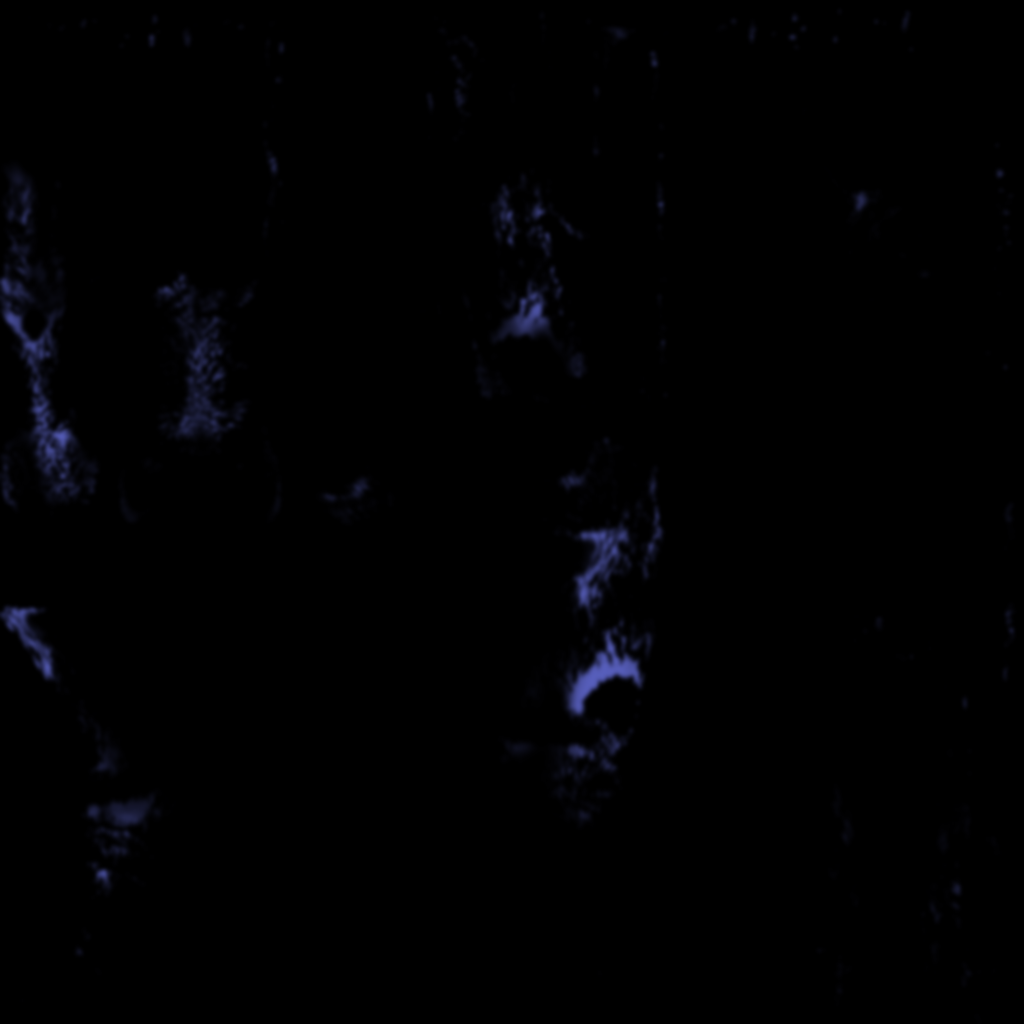
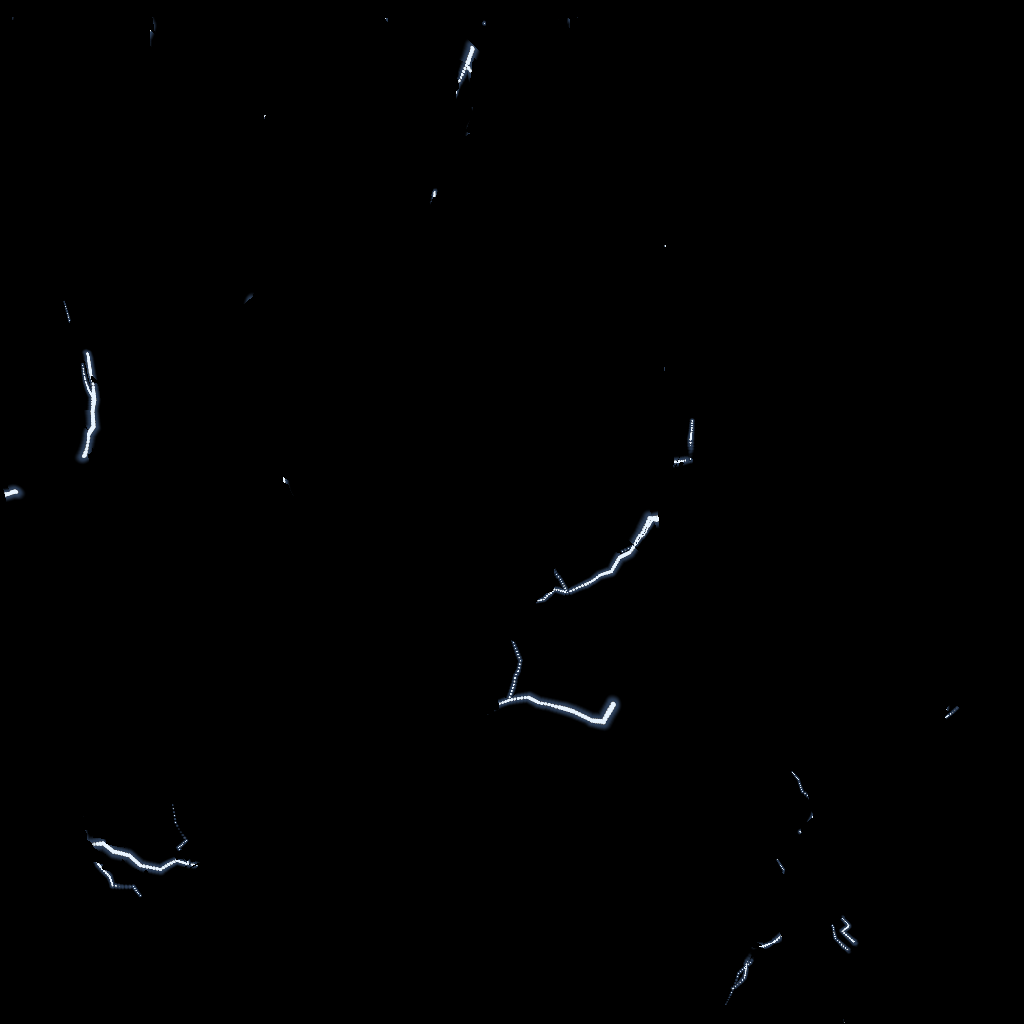
Stormtrail: branching lightning bolts replace the seam glow, plus value separation (CLOSE-OUT candidate, CPU b47 judging)
Coordinator ruling (b): the storm_veins layer lit the darkest fur seams, which
b45's judges read as glowing seams on fur (owner 25 Oct). It is replaced by
two forked, tapering bolts per flank drawn on the body in model space
(generate_aspect_variant_textures.py build_bolts: a jagged walk over the
anatomy map's 3D texel positions, scored by 3D distance so bolts cross UV
seams unbroken), with a pale core in the albedo and lit in the emissive. The
coat values spread as in b45 (x0.62 / x0.45). storm_line_glow is unchanged
(still selects nothing).

Claude-Session: https://claude.ai/code/session_01JPKcWk3oujAH1JzcwdMWv5

diff --git a/tools/generate_aspect_variant_textures.py b/tools/generate_aspect_variant_textures.py
@@ -285,6 +285,137 @@ def build_glow_map(albedo_rgb, source_rgb, anatomy, glow_specs, size, seed_key="
     return np.clip(canvas, 0.0, 1.0), notes
 
 
+def _model_extent(glb_path):
+    """The model's own bind-pose box size (glTF POSITION min/max), the box the
+    anatomy map's `unit` coordinates are normalised by."""
+    with open(glb_path, "rb") as handle:
+        data = handle.read()
+    length = int.from_bytes(data[12:16], "little")
+    gltf = json.loads(data[20:20 + length])
+    lo = np.full(3, np.inf)
+    hi = np.full(3, -np.inf)
+    for mesh in gltf.get("meshes", []):
+        for primitive in mesh.get("primitives", []):
+            accessor = gltf["accessors"][primitive["attributes"]["POSITION"]]
+            lo = np.minimum(lo, np.asarray(accessor["min"], dtype=np.float64))
+            hi = np.maximum(hi, np.asarray(accessor["max"], dtype=np.float64))
+    return np.maximum(hi - lo, 1e-6)
+
+
+def build_bolts(anatomy, spec, extent, seed):
+    """Branching lightning drawn ON THE BODY in model space (CLOSE-OUT 26 Oct,
+    coordinator ruling on Stormtrail; owner 25 Oct: lightning arcs on storm
+    creatures, never glowing seams on fur).
+
+    Each bolt is a jagged random walk over the surface texels' own 3D
+    positions, from the spine down a flank, with forks; every texel is then
+    scored by its 3D distance to the bolt, so a bolt crosses UV seams without
+    breaking (painting in UV space was what made the old lightning network's
+    leg bands read as UV artefacts). The width tapers from root to tip.
+
+    Returns (core, halo): 0..1 maps for the bright core and its soft halo."""
+    from scipy.spatial import cKDTree
+
+    rng = np.random.default_rng(seed)
+    valid = anatomy["valid"]
+    unit = anatomy["unit"].astype(np.float64)
+    region = anatomy_mask(spec.get("where", {}), anatomy, 0.02) > 0.5
+    pick = valid & region
+    pts = unit[pick] * extent
+    if len(pts) < 100:
+        return None, None
+    height = extent[1]
+    tree = cKDTree(pts)
+    step = float(spec.get("step", 0.025)) * height
+    jag = np.deg2rad(float(spec.get("jag_deg", 38.0)))
+    centre_x = 0.5 * extent[0]
+
+    def walk(start, direction, n_steps, side):
+        path = [start]
+        pos = start
+        d = direction / np.linalg.norm(direction)
+        for _ in range(n_steps):
+            # Jagged: each segment turns by a random angle about the surface,
+            # then is pulled back toward the bolt's overall heading.
+            turn = rng.uniform(-jag, jag)
+            axis = np.array([1.0, 0.0, 0.0])
+            c, s_ = np.cos(turn), np.sin(turn)
+            d_step = d * c + np.cross(axis, d) * s_
+            target = pos + d_step * step * rng.uniform(0.6, 1.3)
+            _, idx = tree.query(target, k=8)
+            candidates = pts[idx]
+            same = (candidates[:, 0] - centre_x) * side > 0.0
+            if not same.any():
+                break
+            nxt = candidates[same][0]
+            if np.linalg.norm(nxt - pos) < step * 0.2:
+                break
+            path.append(nxt)
+            pos = nxt
+        return np.asarray(path)
+
+    samples = []
+    widths = []
+    root_w = float(spec.get("width", 0.012)) * height
+    tip_scale = float(spec.get("tip_scale", 0.3))
+    for side in (-1.0, 1.0):
+        count = int(spec.get("count_per_side", 3))
+        z_lo, z_hi = spec.get("start_z", [0.25, 0.75])
+        # Spread the roots along the body (one per equal slot, jittered inside
+        # it) so bolts never stack side by side like a stamped decal.
+        slots = [z_lo + (z_hi - z_lo) * (i + rng.uniform(0.2, 0.8)) / count for i in range(count)]
+        for z_frac in slots:
+            z = z_frac * extent[2]
+            y = rng.uniform(*spec.get("start_y", [0.8, 0.95])) * extent[1]
+            x = centre_x + side * 0.25 * extent[0]
+            _, idx = tree.query([x, y, z], k=16)
+            cand = pts[idx]
+            cand = cand[(cand[:, 0] - centre_x) * side > 0.0]
+            if len(cand) == 0:
+                continue
+            drift = float(spec.get("drift", 0.7))
+            heading = np.array([0.0, -1.0, rng.choice([-1.0, 1.0]) * rng.uniform(0.5 * drift, drift)])
+            main = walk(cand[0], heading, int(spec.get("steps", 14)), side)
+            bolts = [(main, root_w)]
+            for _ in range(int(spec.get("forks", 2))):
+                if len(main) < 4:
+                    break
+                at = rng.integers(1, len(main) - 2)
+                fork_dir = np.array([0.0, -0.6, rng.choice([-1.0, 1.0]) * rng.uniform(0.6, 1.0)])
+                frac = 1.0 - at / max(len(main) - 1, 1)
+                branch = walk(main[at], fork_dir, max(3, int(spec.get("steps", 14) * 0.45)), side)
+                bolts.append((branch, root_w * (tip_scale + (1.0 - tip_scale) * frac) * 0.7))
+            for path, w0 in bolts:
+                for i in range(len(path) - 1):
+                    a, b = path[i], path[i + 1]
+                    t0 = i / max(len(path) - 1, 1)
+                    for f in np.linspace(0.0, 1.0, 6, endpoint=False):
+                        samples.append(a + (b - a) * f)
+                        widths.append(w0 * (1.0 - (1.0 - tip_scale) * (t0 + f / max(len(path) - 1, 1))))
+    if not samples:
+        return None, None
+    samples = np.asarray(samples)
+    widths = np.asarray(widths)
+    bolt_tree = cKDTree(samples)
+    halo_scale = float(spec.get("halo_scale", 3.0))
+    all_pts = unit[valid] * extent
+    dist, idx = bolt_tree.query(all_pts, distance_upper_bound=float(widths.max() * halo_scale))
+    hit = np.isfinite(dist)
+    w = np.where(hit, widths[np.minimum(idx, len(widths) - 1)], 1.0)
+    def ramp(lo, hi, x):  # per-texel edges (the width tapers along the bolt)
+        u = np.clip((x - lo) / np.maximum(hi - lo, 1e-9), 0.0, 1.0)
+        return u * u * (3.0 - 2.0 * u)
+
+    dist = np.where(hit, dist, 0.0)
+    core_v = np.where(hit, 1.0 - ramp(0.55 * w, w, dist), 0.0)
+    halo_v = np.where(hit, 1.0 - ramp(w, w * halo_scale, dist), 0.0)
+    core = np.zeros(valid.shape)
+    halo = np.zeros(valid.shape)
+    core[valid] = core_v
+    halo[valid] = halo_v
+    return core, halo
+
+
 def main():
     spec = load_spec()
     wanted = sys.argv[1:] or sorted(spec.keys())
@@ -336,6 +467,27 @@ def main():
             seed_key=variant)
         for note in glow_notes:
             print("   glow: %s" % note)
+
+        bolts = entry.get("bolts")
+        if bolts:
+            glb_dir = os.path.join(ROOT, "assets", "creatures", "tetherbound", source, "models")
+            glb = os.path.join(glb_dir, sorted(f for f in os.listdir(glb_dir) if f.endswith(".glb"))[0])
+            core, halo = build_bolts(anatomy, bolts, _model_extent(glb), _stable_seed(variant, "bolts"))
+            if core is None:
+                print("   bolts: selected nothing")
+            else:
+                core_rgb = _hex_to_rgb(str(bolts.get("core_color", "#e8f4ff")))
+                halo_rgb = _hex_to_rgb(str(bolts.get("halo_color", "#7fb4ff")))
+                paint = core * float(bolts.get("albedo_core", 0.9))
+                tint = halo * float(bolts.get("albedo_halo", 0.25))
+                albedo_arr = albedo_arr * (1.0 - tint[..., None]) + halo_rgb[None, None, :] * tint[..., None]
+                albedo_arr = albedo_arr * (1.0 - paint[..., None]) + core_rgb[None, None, :] * paint[..., None]
+                Image.fromarray((np.clip(albedo_arr, 0, 1) * 255 + 0.5).astype(np.uint8), "RGB").save(albedo_dst, optimize=True)
+                glow_rgb = np.maximum(glow_rgb, np.maximum(
+                    (core * float(bolts.get("core_intensity", 1.0)))[..., None] * core_rgb[None, None, :],
+                    (halo * float(bolts.get("halo_intensity", 0.35)))[..., None] * halo_rgb[None, None, :]))
+                share = 100.0 * float((core > 0.5).sum()) / max(float(anatomy["valid"].sum()), 1.0)
+                print("   bolts: core %.2f%% of the surface" % share)
 
         emissive_dst = emissive_target
         alpha = np.full(glow_rgb.shape[:2] + (1,), 255, dtype=np.uint8)
